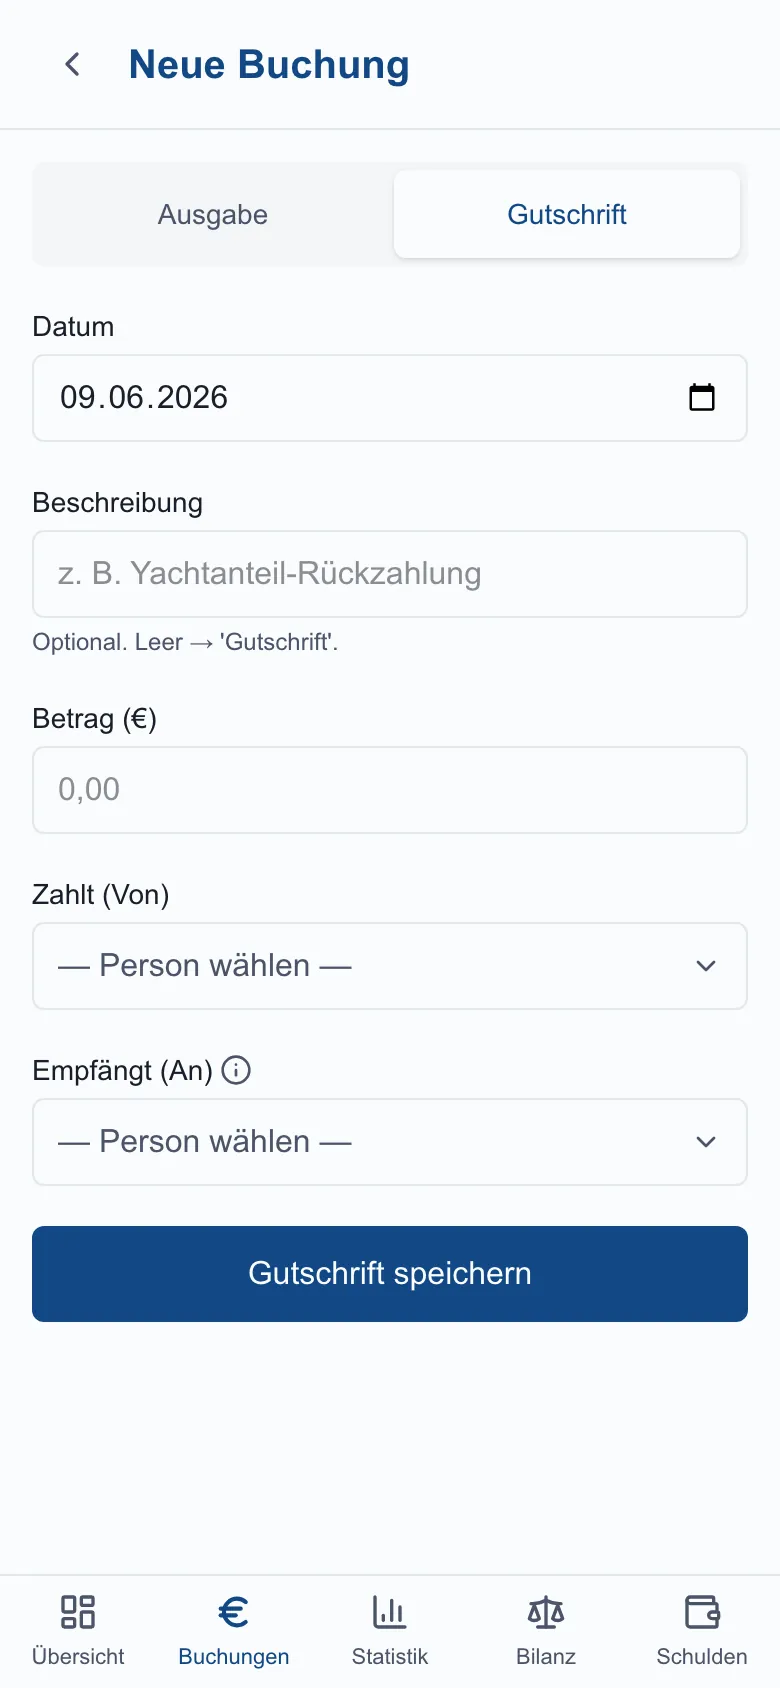
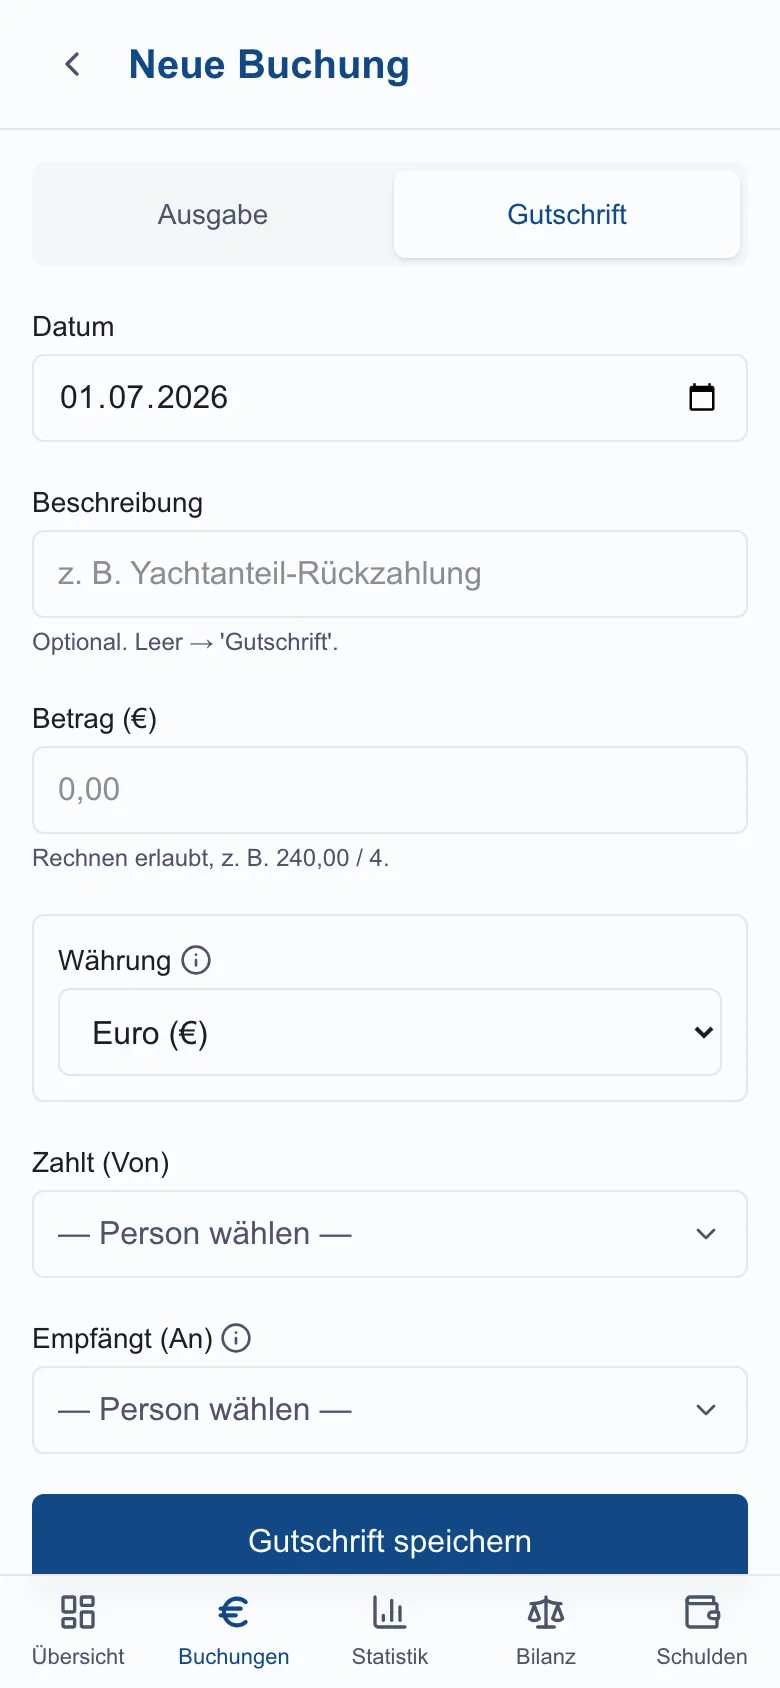
/about: Feature „In Fremdwährung buchen" + Screenshot (#195)
* /about: Feature-Eintrag „In Fremdwährung buchen"

Neuer Eintrag in der Phase „Während des Törns" (Rolle „Alle"). Erklärt
Währungs-Freischaltung, Live-Kurs, Offline-Fallback, Pro-Person-Fremdbeträge
und den nachtragbaren Bankkurs. Referenziert /about/19-fremdwaehrung.webp
(Screenshot folgt im selben Branch, bevor die PR aufgemacht wird).

* /about: Seed + Screenshot-Schritt für Fremdwährung vorbereiten

- seed_demo.sql: Ostseetörn bekommt foreign_currencies '{NOK,DKK}', damit die
  Buchungsmaske den Währungswähler zeigt.
- take-screenshots.ts: neuer Capture-Schritt 19-fremdwaehrung (Währung NOK,
  Betrag 480, Kurs 0,085 → „Ergibt 40,80 €").

WebP wird durch den Pipeline-Lauf erzeugt (folgt).

* /about: Screenshot 19-fremdwaehrung + 06/12 mit Währungswähler

- 19-fremdwaehrung.webp: neue Buchung in NOK (480), Kurs 0,085 → „Ergibt 40,80 €",
  inkl. Bank-Aufklapper.
- 06-buchung-neu.webp + 12-gutschrift.webp neu aufgenommen: der Demo-Ostseetörn
  hat jetzt Fremdwährungen aktiviert → beide Masken zeigen den (auf Euro
  stehenden) Währungswähler; sonst unverändert.
- take-screenshots.ts: Feinschliff der 19-Aufnahme (Kurs-Feld zentriert, Maus
  aus dem ⓘ-Hover → kein offener Tooltip).

* /about: typografisches Anführungszeichen (ESLint no-unescaped-entities)

* /about: klarstellen, dass Fremdwährung opt-in ist (Standard = Euro, clean)

Ergänzt im Feature-Text explizit, dass vom Fremdwährungsmodul nichts erscheint,
[…]

diff --git a/webapp/app/about/page.tsx b/webapp/app/about/page.tsx
@@ -204,6 +204,40 @@ const features: Feature[] = [
     alt: "Neue Buchung anlegen mit Aufteilungsauswahl",
   },
   {
+    id: "fremdwaehrung",
+    title: "In Fremdwährung buchen",
+    lead: "Restaurant in Kroatien, Sprit in Norwegen: Kommt auf dem Törn eine andere Währung als Euro dazu, schaltest du sie einmal in den Einstellungen frei und buchst danach pro Ausgabe direkt in dieser Währung.",
+    body: (
+      <>
+        <p>
+          Standardmäßig ist alles in Euro — vom Fremdwährungsmodul siehst du
+          nichts. Erst wenn du in den Törneinstellungen eine Währung freischaltest,
+          erscheint bei den Buchungen ein Währungswähler. So bleibt die App für
+          normale Euro-Törns aufgeräumt.
+        </p>
+        <p className="mt-2">
+          Ist eine Währung aktiv, gibst du den Betrag so ein, wie er auf dem Bon
+          steht, und wählst sie aus. Die Bordkasse zieht den Tageskurs automatisch
+          aus dem Netz und rechnet in Euro um. Der Kurs ist immer sichtbar und
+          lässt sich anpassen.
+        </p>
+        <p className="mt-2">
+          Ohne Empfang nimmt die App den zuletzt bekannten Kurs, damit du auch auf
+          See weiterbuchen kannst. Bei „Pro Person“ trägt jede Person ihren Betrag
+          vom Bon ein.
+        </p>
+        <p className="mt-2">
+          Kommt später der Kontoauszug, kannst du den tatsächlich abgebuchten
+          Eurobetrag nachtragen. Dann rechnet die Bordkasse mit dem echten
+          Bankkurs inklusive Gebühren. Die Abrechnung bleibt am Ende in Euro,
+          egal wie viele Währungen unterwegs zusammenkamen.
+        </p>
+      </>
+    ),
+    screenshot: "/about/19-fremdwaehrung.webp",
+    alt: "Buchungsmaske mit Währungswähler, Wechselkurs und Umrechnung in Euro",
+  },
+  {
     id: "bilanz",
     title: "Bilanz",
     lead: "Wer hat insgesamt mehr gezahlt als verbraucht, wer weniger? Der Saldo wird laufend aus allen Buchungen berechnet.",
@@ -497,7 +531,7 @@ const PHASES: Phase[] = [
     Icon: Sailboat,
     title: "Während des Törns",
     lead: "Ausgaben und Gutschriften erfassen, auch ohne Internet.",
-    featureIds: ["buchungen", "buchung-neu", "gutschrift", "offline"],
+    featureIds: ["buchungen", "buchung-neu", "fremdwaehrung", "gutschrift", "offline"],
   },
   {
     id: "abrechnung",

diff --git a/webapp/scripts/take-screenshots.ts b/webapp/scripts/take-screenshots.ts
@@ -322,6 +322,26 @@ async function main() {
   await page.waitForTimeout(300);
   await shot(page, "06-buchung-neu");
 
+  console.log("→ Buchung in Fremdwährung");
+  await page.goto(`${BASE_URL}/trips/${tripId}/transactions/new`);
+  await waitForLoad(page);
+  // Fremdwährungs-Buchung: Währung wählen, Fremdbetrag + Kurs eintragen — zeigt
+  // Währungswähler, Wechselkurs und die „Ergibt X €"-Umrechnung.
+  await page.locator('input[name="description"]').fill("Restaurant Bergen").catch(() => {});
+  await page.locator("#currency_select").selectOption("NOK").catch(() => {});
+  await page.locator('input[name="amount"]').fill("480,00").catch(() => {});
+  // Kurs deterministisch setzen (unabhängig vom Live-Abruf), damit der Screenshot
+  // immer „Ergibt 40,80 €" zeigt.
+  await page.locator("#exchange_rate_input").fill("0,085").catch(() => {});
+  await page.waitForTimeout(300);
+  // Kurs-Feld zentrieren → „Ergibt X €" darunter bleibt sichtbar, Währung darüber.
+  await page.locator("#exchange_rate_input").scrollIntoViewIfNeeded().catch(() => {});
+  await page.evaluate(() => window.scrollBy(0, 60));
+  // Maus in die Ecke → kein ⓘ-Tooltip bleibt offen und verdeckt den Kurs.
+  await page.mouse.move(5, 5).catch(() => {});
+  await page.waitForTimeout(250);
+  await shot(page, "19-fremdwaehrung");
+
   console.log("→ Bilanz");
   await page.goto(`${BASE_URL}/trips/${tripId}/balance`);
   await waitForLoad(page);
